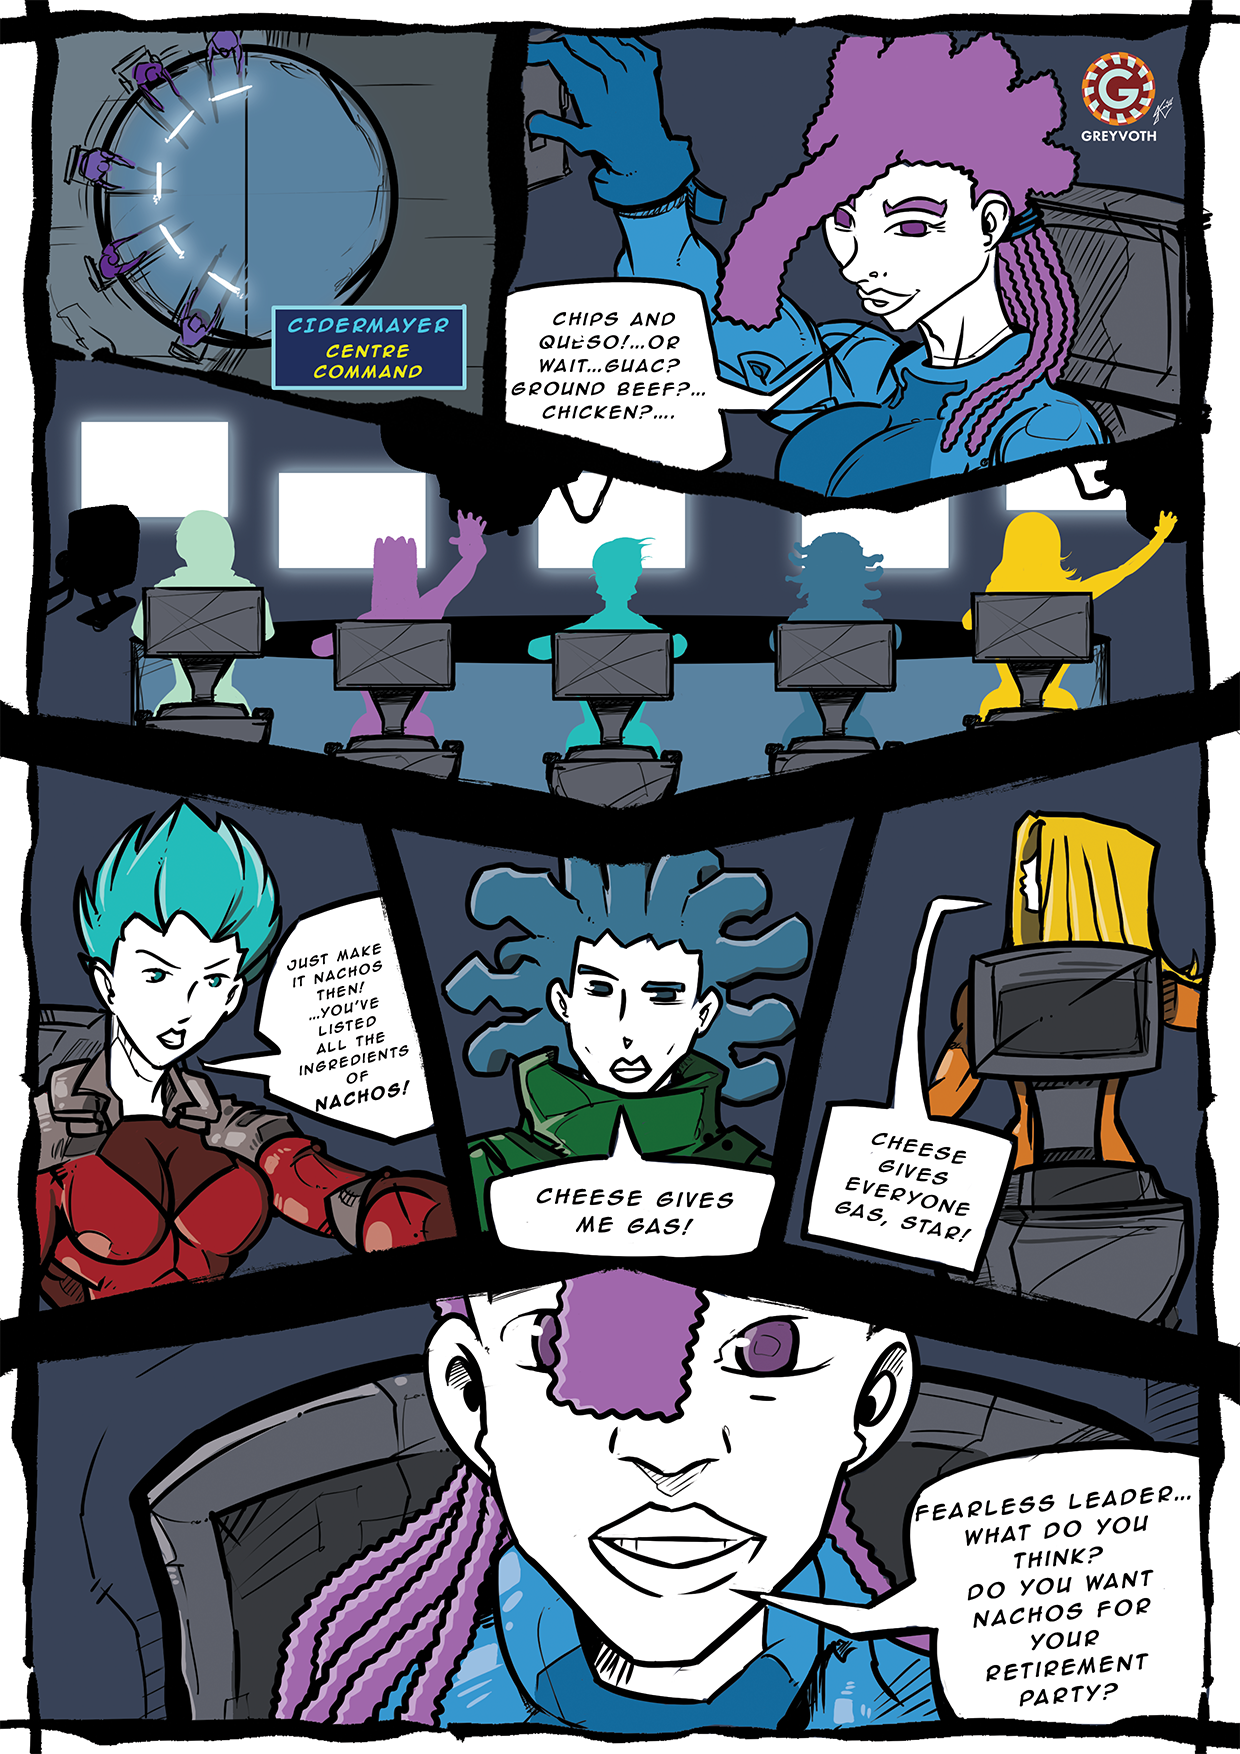
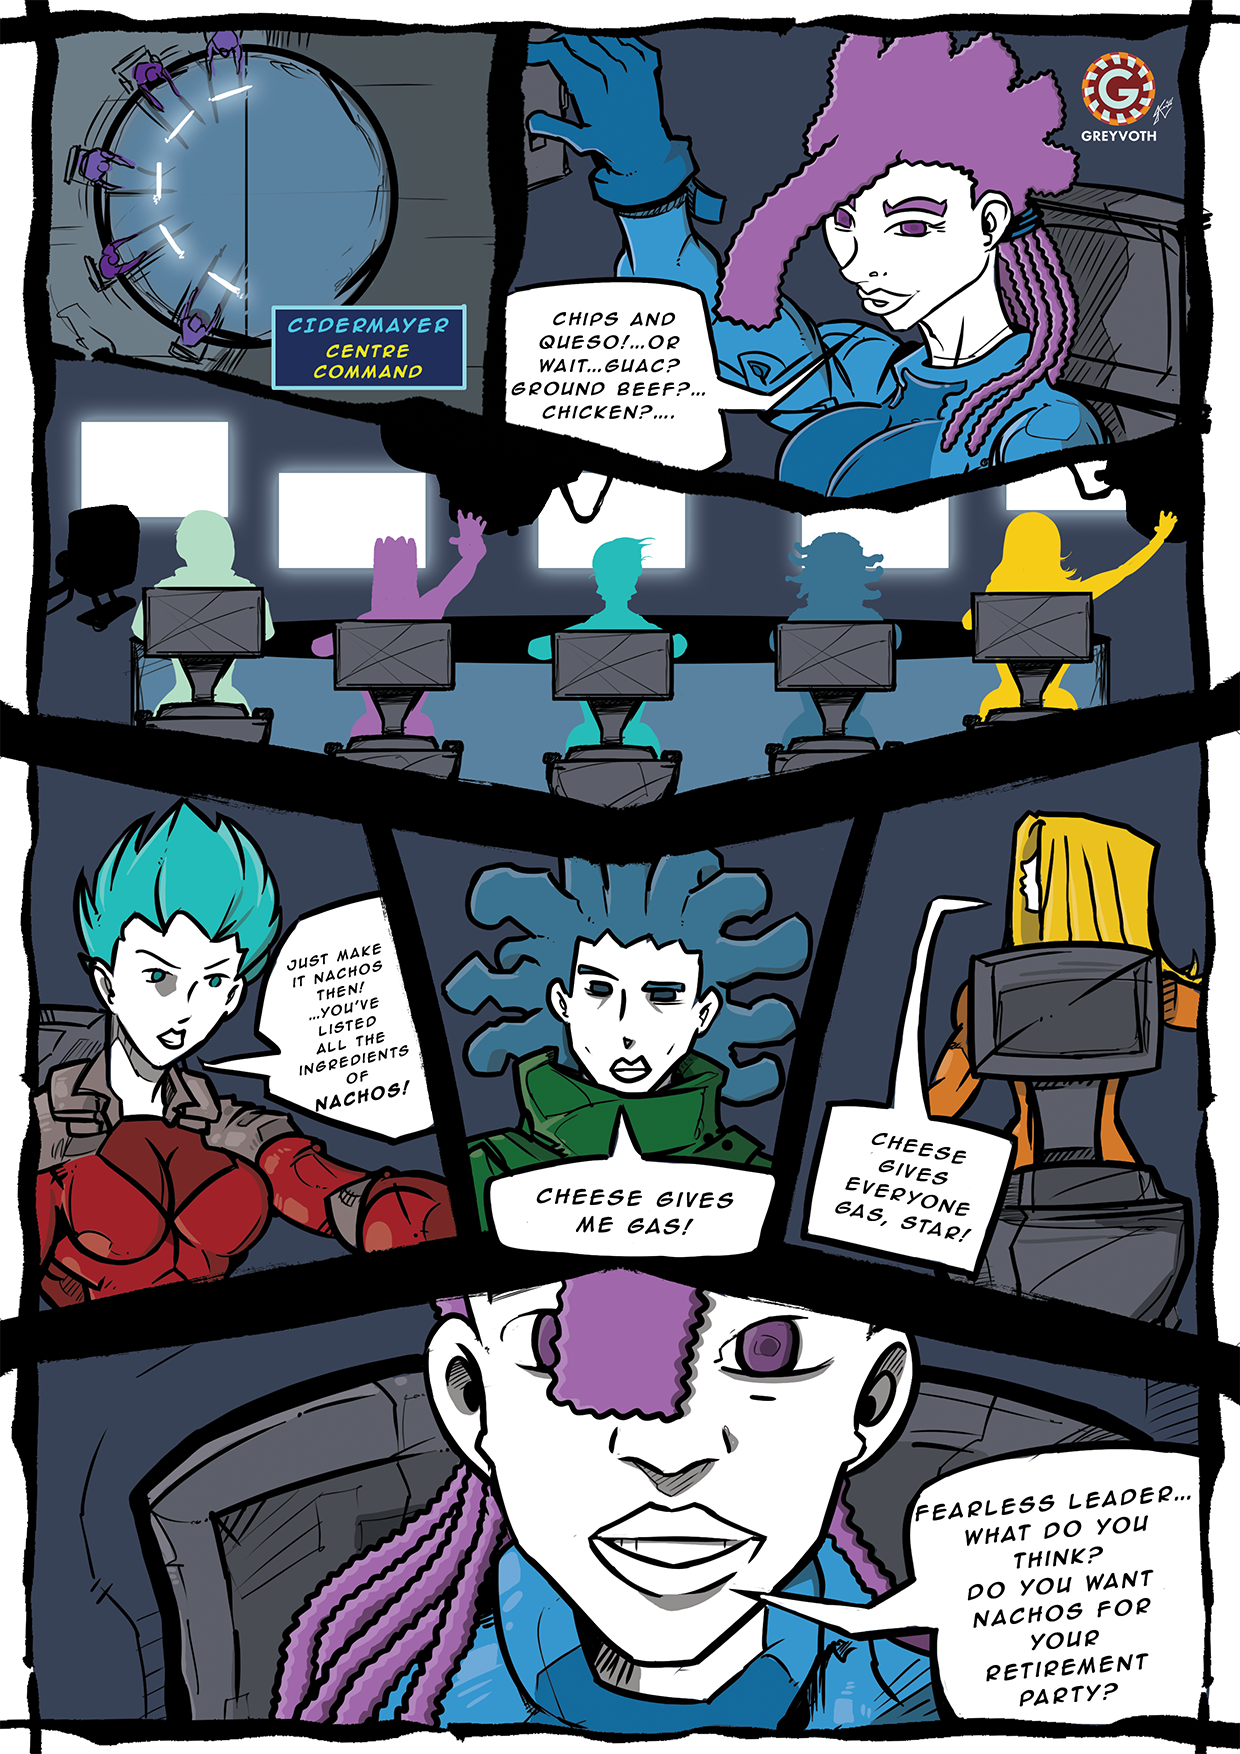
update to page 20

diff --git a/_chapters/c-1.html b/_chapters/c-1.html
@@ -205,6 +205,12 @@
               <span class="hs-pageNum">19</span>
             </button>
           </div>
+          <div class="col-6 col-md-4 col-lg-3">
+            <button type="button" class="hs-pageTile" data-bs-toggle="modal" data-bs-target="#pageReader" data-full="../_chapters/_img/ch1/hs-20.png" aria-label="Open page 20">
+              <img src="../_chapters/_img/ch1/hs-20.png" alt="Hue Shift chapter 1 page 20" loading="lazy" decoding="async">
+              <span class="hs-pageNum">20</span>
+            </button>
+          </div>
         </div>
       </div>
 